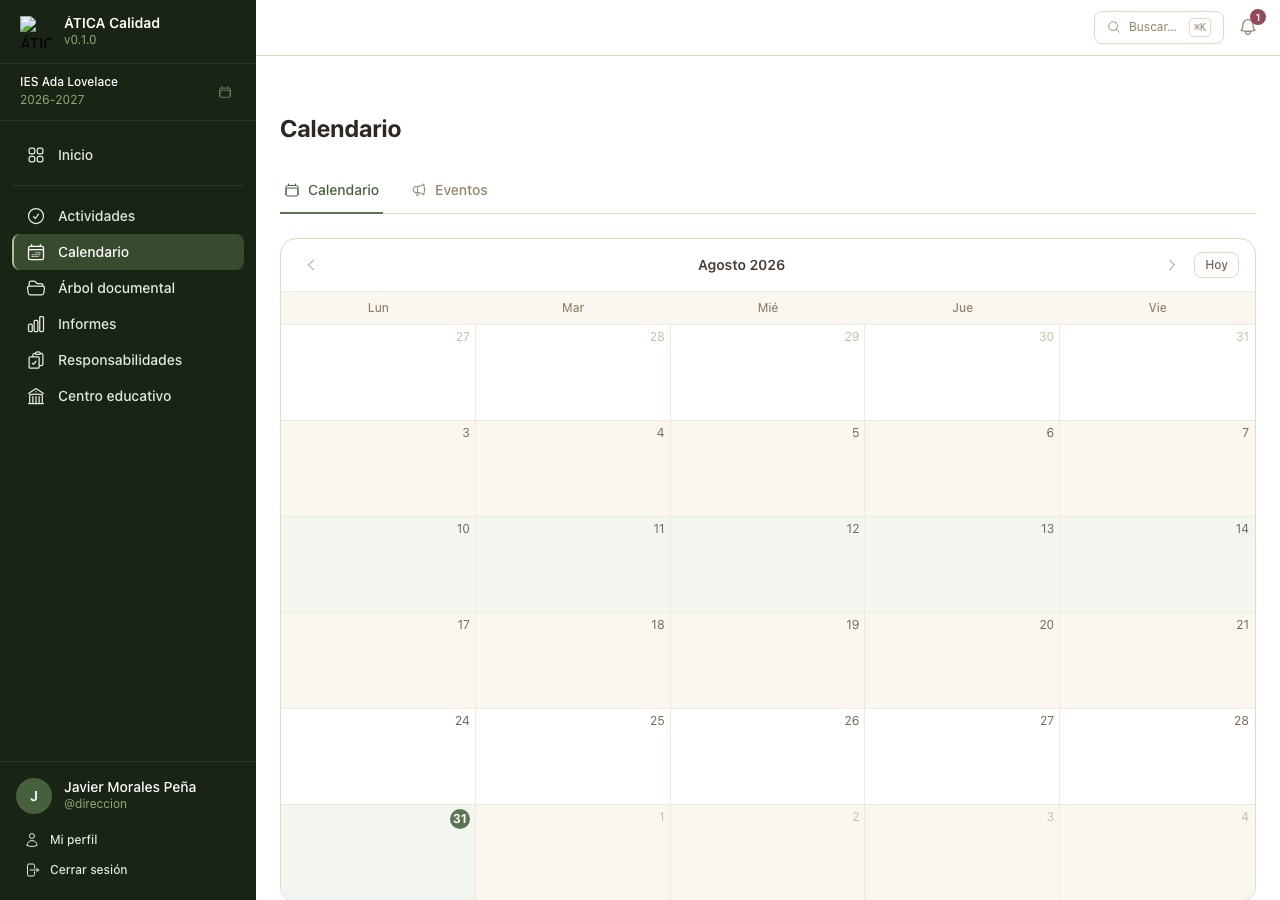
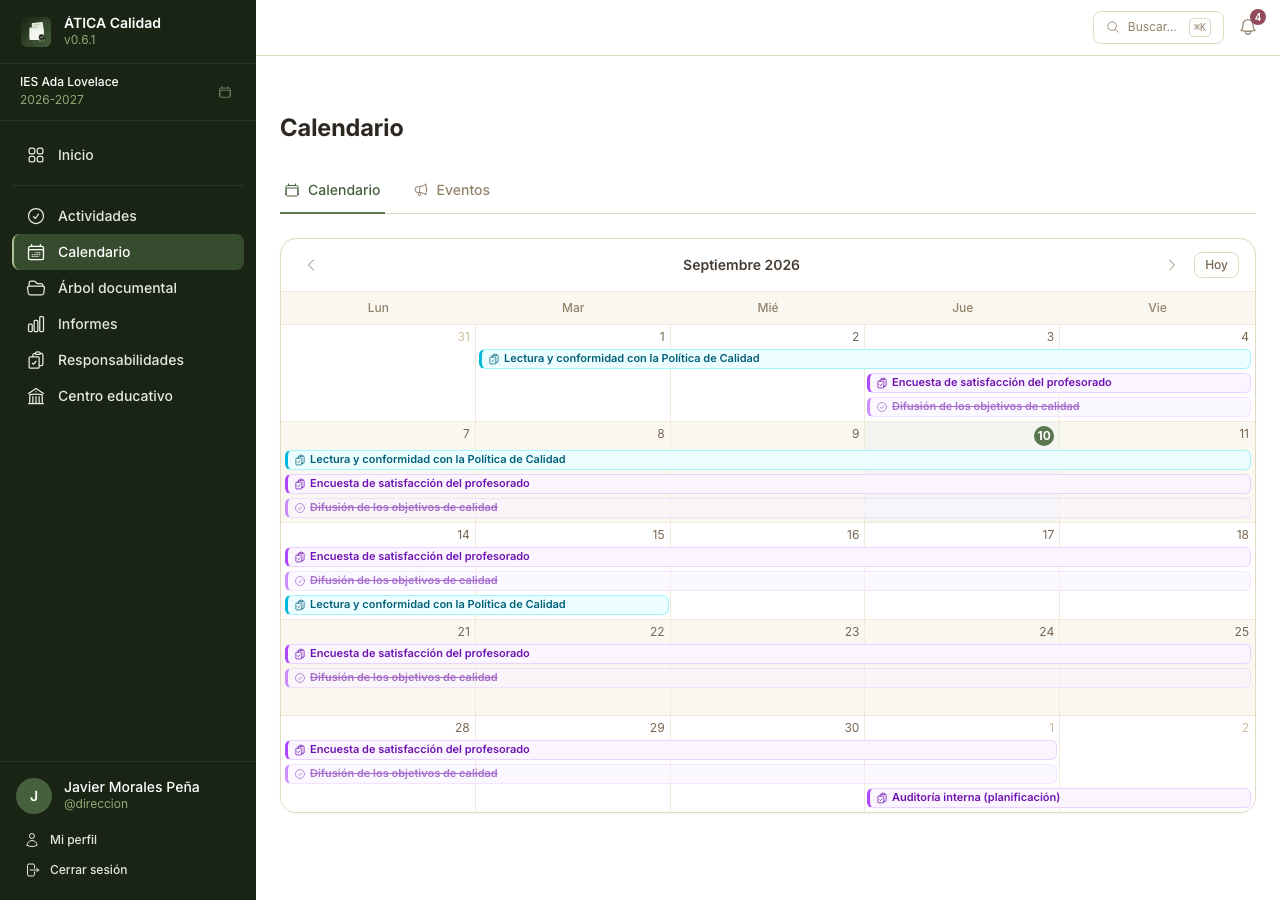
feat(calendar): colorear las actividades por categoría y suavizar las barras
En la cuadrícula mensual cada actividad se colorea según su categoría (mismo
color = misma categoría), con una franja de color a la izquierda, para que
varias actividades apiladas en un día se lean como un grupo. Antes el color
salía del perfil/subperfil propietario y las actividades sin perfil eran todas
del mismo violeta.

AssignmentColorPalette pasa a tonos más suaves (fondo -50, borde -200, texto
-800) y añade un canal `accent` (border-l-*-500) para esa franja; afecta por
igual a los eventos restringidos por perfil, que quedan igual de calmados.
CalendarComponent colorea las ocurrencias de actividad con
colorFor('activity-category:' + id de la categoría).

Datos de demostración: app:load-demo-data añade la categoría «Seguimiento del
SGC» con cuatro actividades, una por estado (sin empezar, en plazo, vencida,
completada), para que el código de color se aprecie desde el primer arranque.

docs: manual (Calendario y Actividades) actualizado; capturas de pantalla
regeneradas contra los datos de demostración enriquecidos, más una nueva
(actividades-ver-colores) con las tarjetas de actividad teñidas por estado.

Claude-Session: https://claude.ai/code/session_012v86ahLucVf4jAkfNFAiZL

diff --git a/src/Command/LoadDemoDataCommand.php b/src/Command/LoadDemoDataCommand.php
@@ -7,6 +7,7 @@ namespace App\Command;
 use App\Entity\AcademicYear;
 use App\Entity\Activity;
 use App\Entity\ActivityCategory;
+use App\Entity\ActivityCompletion;
 use App\Entity\ActivitySubmissionScope;
 use App\Entity\Document;
 use App\Entity\DocumentSection;
@@ -139,6 +140,7 @@ class LoadDemoDataCommand extends Command
         $programacionesActivity = $this->createActivity($centre, $folders['programaciones'], $materiaLeaves, $io);
         $this->createIndividualActivity($centre, $folders['pat'], $io);
         $manualActivity = $this->createManualActivity($centre, $io);
+        $this->createStatusShowcaseActivities($centre, $io);
 
         $io->section('Entregas de ejemplo');
         $this->seedSampleSubmissions($folders['programaciones'], $profiles, $departamentoLeaves, $materiaLeaves, $io);
@@ -665,6 +667,76 @@ class LoadDemoDataCommand extends Command
         $io->text('Categoría "Sensibilización y compromiso" y actividad manual "Lectura y conformidad con la Política de Calidad" creadas (sin carpeta).');
 
         return $activity;
+    }
+
+    /**
+     * Four no-folder activities — one per colour state of the activity lists — so the demo shows
+     * the status colouring straight away for every teacher: sin empezar / en plazo / vencida /
+     * completada. Their windows are relative to "now" (day+month only, so, like every activity,
+     * they repeat each course); near the turn of the year the "vencida" one may fall outside its
+     * cycle and read as pending instead, an accepted quirk of the year-less deadline model.
+     */
+    private function createStatusShowcaseActivities(EducationalCentre $centre, SymfonyStyle $io): void
+    {
+        $category = new ActivityCategory();
+        $category->setName('Seguimiento del SGC')->setEducationalCentre($centre);
+        $this->em->persist($category);
+
+        $now = $this->clock->now();
+        /** @return array{0: int, 1: int} day, month of "now" shifted by $modifier */
+        $dm = static function (string $modifier) use ($now): array {
+            $d = $now->modify($modifier);
+
+            return [(int) $d->format('j'), (int) $d->format('n')];
+        };
+
+        [$overdueStartD, $overdueStartM] = $dm('-2 months');
+        [$overdueEndD, $overdueEndM]     = $dm('-3 weeks');
+        $overdue = (new Activity())
+            ->setCategory($category)
+            ->setTitle('Revisión por la dirección (acta)')
+            ->setDescription('Ejemplo de actividad cuyo plazo ya venció sin completar.')
+            ->setStart($overdueStartD, $overdueStartM)
+            ->setEnd($overdueEndD, $overdueEndM)
+            ->setRequired(true);
+        $this->em->persist($overdue);
+
+        [$openStartD, $openStartM] = $dm('-1 week');
+        [$openEndD, $openEndM]     = $dm('+3 weeks');
+        $active = (new Activity())
+            ->setCategory($category)
+            ->setTitle('Encuesta de satisfacción del profesorado')
+            ->setDescription('Ejemplo de actividad en plazo, todavía sin completar.')
+            ->setStart($openStartD, $openStartM)
+            ->setEnd($openEndD, $openEndM)
+            ->setRequired(true);
+        $this->em->persist($active);
+
+        $completed = (new Activity())
+            ->setCategory($category)
+            ->setTitle('Difusión de los objetivos de calidad')
+            ->setDescription('Ejemplo de actividad ya completada.')
+            ->setStart($openStartD, $openStartM)
+            ->setEnd($openEndD, $openEndM)
+            ->setRequired(true);
+        $this->em->persist($completed);
+        foreach (['direccion', 'calidad', 'admin'] as $username) {
+            $teacher = $this->teachers[$username];
+            $this->em->persist(new ActivityCompletion($completed, $teacher, null, null, $teacher));
+        }
+
+        [$futureStartD, $futureStartM] = $dm('+3 weeks');
+        [$futureEndD, $futureEndM]     = $dm('+6 weeks');
+        $notStarted = (new Activity())
+            ->setCategory($category)
+            ->setTitle('Auditoría interna (planificación)')
+            ->setDescription('Ejemplo de actividad cuyo plazo aún no se ha abierto.')
+            ->setStart($futureStartD, $futureStartM)
+            ->setEnd($futureEndD, $futureEndM)
+            ->setRequired(true);
+        $this->em->persist($notStarted);
+
+        $io->text('Categoría "Seguimiento del SGC" con cuatro actividades de ejemplo, una por estado (sin empezar, en plazo, vencida, completada).');
     }
 
     // ── Sample submissions ──────────────────────────────────────────────────────

diff --git a/src/Service/AssignmentColorPalette.php b/src/Service/AssignmentColorPalette.php
@@ -5,32 +5,36 @@ declare(strict_types=1);
 namespace App\Service;
 
 /**
- * Deterministically assigns a color combination to a key (today, the profile or
- * subprofile an event is restricted to), so that the same key always gets the
- * same color and different keys are visually distinguishable from each other on the calendar.
+ * Deterministically assigns a colour combination to a key (an event's restricted profile /
+ * subprofile, an activity's category…), so the same key always gets the same colour and
+ * different keys stay visually distinguishable on the calendar.
+ *
+ * The tints are deliberately light (`-50` fill, `-300` border, `-700`/`-800` text plus an `-500`
+ * `accent` for a left rule): several colour bars stacked in a calendar cell read as calm chips
+ * grouped by hue rather than a wall of saturated blocks.
  */
 final class AssignmentColorPalette
 {
     /**
-     * @var list<array{bg: string, text: string, border: string}>
+     * @var list<array{bg: string, text: string, border: string, accent: string}>
      */
     private const PALETTE = [
-        ['bg' => 'bg-blue-100', 'text' => 'text-blue-800', 'border' => 'border-blue-300'],
-        ['bg' => 'bg-purple-100', 'text' => 'text-purple-800', 'border' => 'border-purple-300'],
-        ['bg' => 'bg-amber-100', 'text' => 'text-amber-800', 'border' => 'border-amber-300'],
-        ['bg' => 'bg-pink-100', 'text' => 'text-pink-800', 'border' => 'border-pink-300'],
-        ['bg' => 'bg-teal-100', 'text' => 'text-teal-800', 'border' => 'border-teal-300'],
-        ['bg' => 'bg-rose-100', 'text' => 'text-rose-800', 'border' => 'border-rose-300'],
-        ['bg' => 'bg-indigo-100', 'text' => 'text-indigo-800', 'border' => 'border-indigo-300'],
-        ['bg' => 'bg-lime-100', 'text' => 'text-lime-800', 'border' => 'border-lime-300'],
-        ['bg' => 'bg-cyan-100', 'text' => 'text-cyan-800', 'border' => 'border-cyan-300'],
-        ['bg' => 'bg-orange-100', 'text' => 'text-orange-800', 'border' => 'border-orange-300'],
-        ['bg' => 'bg-fuchsia-100', 'text' => 'text-fuchsia-800', 'border' => 'border-fuchsia-300'],
-        ['bg' => 'bg-emerald-100', 'text' => 'text-emerald-800', 'border' => 'border-emerald-300'],
+        ['bg' => 'bg-blue-50', 'text' => 'text-blue-800', 'border' => 'border-blue-200', 'accent' => 'border-l-blue-500'],
+        ['bg' => 'bg-purple-50', 'text' => 'text-purple-800', 'border' => 'border-purple-200', 'accent' => 'border-l-purple-500'],
+        ['bg' => 'bg-amber-50', 'text' => 'text-amber-800', 'border' => 'border-amber-200', 'accent' => 'border-l-amber-500'],
+        ['bg' => 'bg-pink-50', 'text' => 'text-pink-800', 'border' => 'border-pink-200', 'accent' => 'border-l-pink-500'],
+        ['bg' => 'bg-teal-50', 'text' => 'text-teal-800', 'border' => 'border-teal-200', 'accent' => 'border-l-teal-500'],
+        ['bg' => 'bg-rose-50', 'text' => 'text-rose-800', 'border' => 'border-rose-200', 'accent' => 'border-l-rose-500'],
+        ['bg' => 'bg-indigo-50', 'text' => 'text-indigo-800', 'border' => 'border-indigo-200', 'accent' => 'border-l-indigo-500'],
+        ['bg' => 'bg-lime-50', 'text' => 'text-lime-800', 'border' => 'border-lime-200', 'accent' => 'border-l-lime-500'],
+        ['bg' => 'bg-cyan-50', 'text' => 'text-cyan-800', 'border' => 'border-cyan-200', 'accent' => 'border-l-cyan-500'],
+        ['bg' => 'bg-orange-50', 'text' => 'text-orange-800', 'border' => 'border-orange-200', 'accent' => 'border-l-orange-500'],
+        ['bg' => 'bg-fuchsia-50', 'text' => 'text-fuchsia-800', 'border' => 'border-fuchsia-200', 'accent' => 'border-l-fuchsia-500'],
+        ['bg' => 'bg-emerald-50', 'text' => 'text-emerald-800', 'border' => 'border-emerald-200', 'accent' => 'border-l-emerald-500'],
     ];
 
     /**
-     * @return array{bg: string, text: string, border: string}
+     * @return array{bg: string, text: string, border: string, accent: string}
      */
     public function colorFor(string $key): array
     {

diff --git a/src/Twig/Components/CalendarComponent.php b/src/Twig/Components/CalendarComponent.php
@@ -33,8 +33,7 @@ use Symfony\UX\LiveComponent\Attribute\AsLiveComponent;
 #[AsLiveComponent]
 class CalendarComponent extends AbstractCalendarComponent
 {
-    private const array GENERAL_EVENT_COLOR = ['bg' => 'bg-sky-100', 'text' => 'text-sky-800', 'border' => 'border-sky-300'];
-    private const array PERSONAL_ACTIVITY_COLOR = ['bg' => 'bg-violet-100', 'text' => 'text-violet-800', 'border' => 'border-violet-300'];
+    private const array GENERAL_EVENT_COLOR = ['bg' => 'bg-sky-50', 'text' => 'text-sky-800', 'border' => 'border-sky-200', 'accent' => 'border-l-sky-500'];
 
     /** @var list<SchoolEvent>|null */
     private ?array $itemsCache = null;
@@ -90,7 +89,9 @@ class CalendarComponent extends AbstractCalendarComponent
                     return [
                         'label'   => $item->activity->getTitle() . ($item->ownerLabel !== null ? ' · ' . $item->ownerLabel : ''),
                         'details' => '',
-                        'color'   => $item->ownerKey !== '' ? $this->colorPalette->colorFor($item->ownerKey) : self::PERSONAL_ACTIVITY_COLOR,
+                        // Colour by category, so every activity of the same category shares a hue
+                        // and reads as a group across the month (the owner, if any, is in the label).
+                        'color'   => $this->colorPalette->colorFor('activity-category:' . $item->activity->getCategory()->getId()->toRfc4122()),
                         'icon'    => $item->completed ? 'heroicons:check-circle' : 'heroicons:clipboard-document-check',
                         'muted'   => $item->completed,
                     ];

diff --git a/tests/Integration/Command/LoadDemoDataCommandTest.php b/tests/Integration/Command/LoadDemoDataCommandTest.php
@@ -62,7 +62,11 @@ final class LoadDemoDataCommandTest extends RepositoryTestCase
 
         /** @var ActivityRepository $activities */
         $activities = self::getContainer()->get(ActivityRepository::class);
-        self::assertCount(3, $activities->findAll());
+        // 3 core demo activities + 4 in "Seguimiento del SGC", one per status colour.
+        self::assertCount(7, $activities->findAll());
+        $titles = array_map(static fn ($a): string => $a->getTitle(), $activities->findAll());
+        self::assertContains('Difusión de los objetivos de calidad', $titles);
+        self::assertContains('Auditoría interna (planificación)', $titles);
 
         /** @var ListItemRepository $items */
         $items = self::getContainer()->get(ListItemRepository::class);

diff --git a/src/Service/CalendarMonthGridBuilder.php b/src/Service/CalendarMonthGridBuilder.php
@@ -24,7 +24,7 @@ final class CalendarMonthGridBuilder
      *
      * @param list<T> $items
      * @param callable(T): (array{id: string, start: \DateTimeImmutable, end: \DateTimeImmutable}|null) $toRange returns null to skip an item (e.g. missing dates)
-     * @param callable(T): array{label: string, details: string, color: array{bg: string, text: string, border: string}, icon?: string, muted?: bool} $toSegment
+     * @param callable(T): array{label: string, details: string, color: array{bg: string, text: string, border: string, accent?: string}, icon?: string, muted?: bool} $toSegment
      *
      * @return list<array{days: list<\DateTimeImmutable>, segments: list<array<string, mixed>>, maxLane: int}>
      */

diff --git a/docs/manual/08-actividades.md b/docs/manual/08-actividades.md
@@ -39,7 +39,7 @@ Al entrar, el **Inicio** de la aplicación resume lo que hay pendiente:
 
 ## Mis actividades
 
-![Pestaña «Mis actividades», con el resumen personal y la lista de pendientes](img/actividades-mias.png)
+![Pestaña «Mis actividades»: el resumen personal y la lista, con una actividad de cada estado y su color de fondo](img/actividades-mias.png)
 
 Lista plana de todas las actividades que le corresponden al docente, en cualquier categoría, con
 buscador, un interruptor **Mostrar solo lo pendiente** y filtros por fecha límite, perfil,
@@ -59,7 +59,10 @@ color de fondo según su estado para el docente:
 | Verde | **Completada** — en la pestaña «Ver» solo se pinta en verde si el docente tiene alguna obligación en esa actividad y la ha completado toda. |
 
 Es el mismo código que ya usaban las tarjetas de recuento (Total / Completadas / Pendientes /
-Vencidas) de la parte superior.
+Vencidas) de la parte superior. En la pestaña **Ver**, dentro de una categoría, las tarjetas de
+actividad llevan el mismo código en un tono más suave:
+
+![Tarjetas de actividad en la pestaña «Ver», con el borde y el fondo teñidos según el estado](img/actividades-ver-colores.png)
 
 ## Ver (categorías)
 
@@ -137,6 +140,10 @@ a cada una:
   cuadrícula mensual como en el detalle de cada día de ese periodo.
 - **Actividad de fecha única** (inicio y fin coinciden): se mantiene como una sola marca en esa
   fecha.
+
+En la cuadrícula mensual cada actividad se colorea según su **categoría** —con una franja de color
+a la izquierda—, de modo que las actividades de la misma categoría se agrupan visualmente. Las
+actividades ya completadas se muestran atenuadas y tachadas.
 
 ## Avisos
 

diff --git a/CHANGELOG.md b/CHANGELOG.md
@@ -44,6 +44,12 @@ a [Semantic Versioning](https://semver.org/lang/es/).
   como una banda que cubre todos los días de ese periodo, en la cuadrícula del mes y en el detalle
   de cada día. Una actividad de fecha única (inicio y fin coinciden) se sigue mostrando como una
   sola marca en esa fecha.
+- **Calendario**: las actividades se colorean por **categoría** (mismo color = misma categoría), y
+  las barras de la cuadrícula usan tonos más suaves con una franja de color a la izquierda, para
+  que varias actividades apiladas en un día se lean como un grupo y no como un bloque saturado.
+- **Datos de demostración**: `app:load-demo-data` añade la categoría «Seguimiento del SGC» con
+  cuatro actividades de ejemplo, una por estado (sin empezar, en plazo, vencida, completada), para
+  que el código de color se aprecie desde el primer momento.
 
 - **Registro de actividad**: las acciones de las pantallas interactivas (árbol documental,
   actividades, listas, perfiles, ajustes) se registran ahora con un tipo semántico traducido

diff --git a/docs/manual/03-calendario.md b/docs/manual/03-calendario.md
@@ -23,4 +23,6 @@ El calendario muestra también las actividades del docente, con enlace directo a
 actividad con un rango real (fecha de inicio y de fin distintas) aparece como una banda que cubre
 **todos los días** de ese periodo, tanto en la cuadrícula del mes como en el detalle de cada día;
 una actividad de fecha única (inicio y fin coinciden) se muestra como una sola marca en esa fecha.
-Ver [Actividades](08-actividades.md#actividades-en-el-calendario).
+Cada **categoría** de actividades tiene su propio color, así que las actividades de la misma
+categoría se reconocen de un vistazo. Ver
+[Actividades](08-actividades.md#actividades-en-el-calendario).
